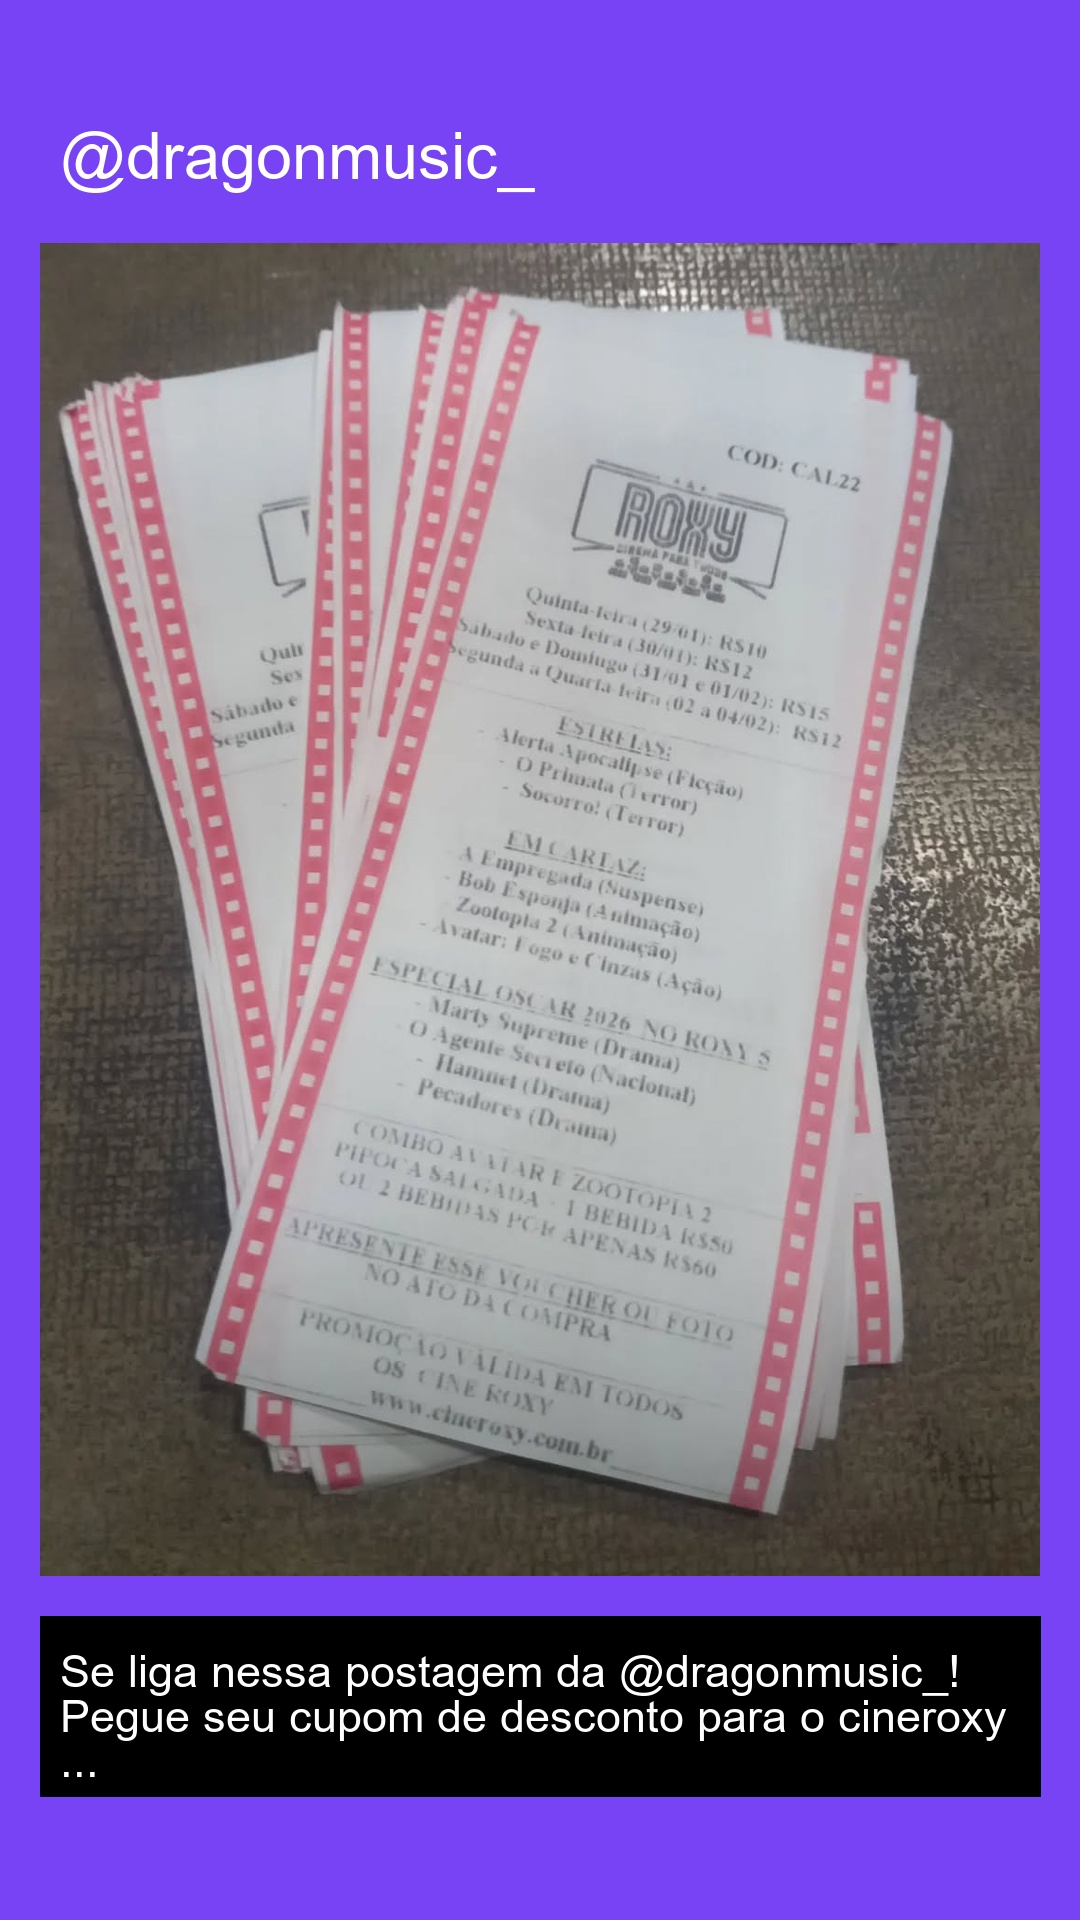
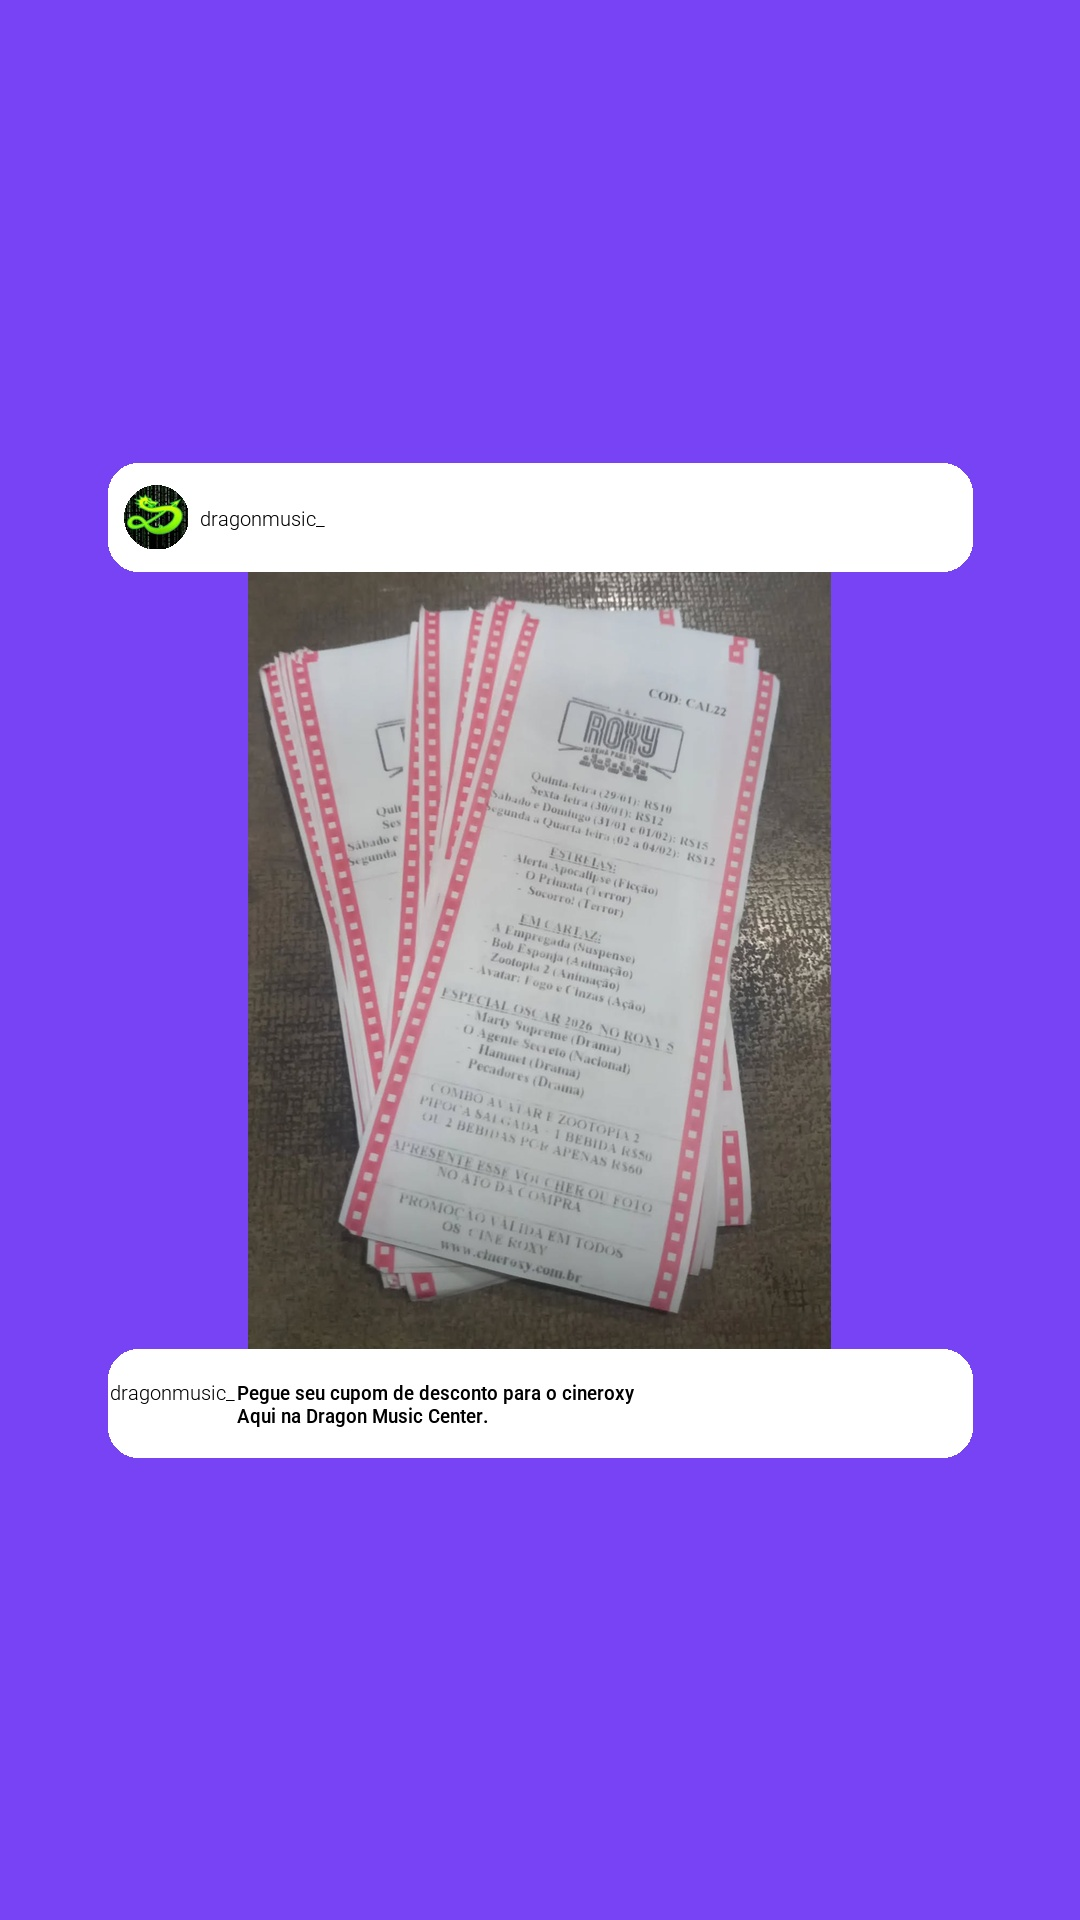
Layout imagens quase pronto

diff --git a/bot.py b/bot.py
@@ -9,10 +9,10 @@ from PIL import Image, ImageDraw, ImageFont
 from io import BytesIO
 
 # === CONFIGURAÇÕES ===
[1 lines of base64/hex data omitted]
-MY_INSTAGRAM_ID = "17841455197985437"
-TARGET_USER = "dragonmusic_"
-IMGBB_API_KEY = "d8708c0e7f0dae2ef239523b50ea314d"
+ACCESS_TOKEN = ""
+MY_INSTAGRAM_ID = ""
+TARGET_USER = ""
+IMGBB_API_KEY = ""
 
 MEDIA_DIR, EDIT_DIR, LOG_DIR = "Media", "Edit", "Log"
 LOG_FILE = os.path.join(LOG_DIR, "postados_log.txt")
@@ -46,12 +46,44 @@ def prepare_custom_image(media_url, post_id, caption_text):
     draw = ImageDraw.Draw(canvas)
 
     # cria um retangulo preto centralizado nas medidas 864x778
-    draw.rectangle([108, 571, 972, 1349], fill=(0, 0, 0))
+    try:
+        response = requests.get(media_url)
+        post_img = Image.open(BytesIO(response.content)).convert("RGB")
+
+        max_w, max_h = 864, 778
+        post_img.thumbnail((max_w, max_h), Image.Resampling.LANCZOS)
+
+        img_w, img_h = post_img.size
+        img_x = 108 + (max_w - img_w) // 2
+        img_y = 571 + (max_h - img_h) // 2
+
+        canvas.paste(post_img, (img_x, img_y))
+
+    except Exception as e:
+        print(f"Erro de processar  imagem do post: {e}")
 
     # cria um retangulo branco acima do retangulo anterior, mesma largura, baixinho, pontras superiores curvadas (864x108)
-    draw.rounded_rectangle([108, 571-108, 972, 571], radius=(30, 30, 0, 0),fill=(255, 255, 255))
+    draw.rounded_rectangle([108, 571-108, 972, 571], radius=30,fill=(255, 255, 255))
     # cria um retangulo branco abaixo do reatangulo anterior, mesma largura, baixinho, pontas inferiores curvadas (864x108)
-    draw.rounded_rectangle([108, 1349, 972, 1349+108], radius=(0, 0, 30, 30),fill=(255, 255, 255))
+    draw.rounded_rectangle([108, 1349, 972, 1349+108], radius=30,fill=(255, 255, 255))
+
+    profile_size = 64
+    profile_path = os.path.join("Images", "dragon.png")
+
+    try:
+        profile_img = Image.open(profile_path).convert("RGBA")
+        profile_img = profile_img.resize((profile_size, profile_size), Image.Resampling.LANCZOS)
+
+        mask = Image.new('L', (profile_size, profile_size), 0)
+        draw_mask = ImageDraw.Draw(mask)
+        draw_mask.ellipse((0, 0, profile_size, profile_size), fill=255)
+
+        profile_img.putalpha(mask)
+
+        canvas.paste(profile_img, (124, 485), profile_img)
+
+    except Exception as e:
+        print(f"Erro ao carregar imagem de perfil: {e}")
 
     # define as variáveis das fontes
     simple_text = ImageFont.truetype("Fonts/static/Roboto_SemiCondensed-Medium.ttf", 20)
@@ -59,9 +91,49 @@ def prepare_custom_image(media_url, post_id, caption_text):
 
     # adiciona 2 textos no bloco branco de baixo, 10 pixels abaixo do inicio dele e 2 pixels a direita do inicio dele
     # e um no meio do branco de cima, 12 pixels a direita
-    draw.text((120, 571-108+44), "dragonmusic_", fill=(0, 0, 0), font=bold_text)
-    draw.text((110, 1349+32), "dragonmusic_", fill=(0, 0, 0), font=bold_text)
-    draw.text((130, 1349+32+25), "Veja só o que a dragon music postou: (descrição)", fill=(0, 0, 0), font=simple_text)
+    draw.text((200, 571-108+44), "dragonmusic_", fill=(0, 0, 0), font=bold_text)
+
+    username = "dragonmusic_"
+    y_linha1 = 1349 + 32
+    y_linha2 = y_linha1 + 20 + 4
+    x_inicio = 110
+    x_limite = 970
+
+    largura_user = bold_text.getlength(username)
+    x_desc_linha1 = x_inicio + largura_user + 2
+    max_w_linha1 = x_limite - x_desc_linha1
+    max_w_linha2 = x_limite - x_inicio
+
+    def fatiar_texto(texto, fonte, largura_maxima):
+        acumulado = ""
+        for char in texto:
+            if fonte.getlength(acumulado + char) <= largura_maxima:
+                acumulado += char
+            else:
+                break
+        return acumulado
+    
+    linha1_conteudo = fatiar_texto(caption_text, simple_text, max_w_linha1)
+    sobra = caption_text[len(linha1_conteudo):].strip()
+
+    if sobra:
+        if simple_text.getlength(sobra) > max_w_linha2:
+            largura_com_pontos = max_w_linha2 - simple_text.getlength("...")
+            linha2_conteudo = fatiar_texto(sobra, simple_text, largura_com_pontos) + "..."
+        else:
+            linha2_conteudo = sobra
+    else: 
+        linha2_conteudo = ""
+    
+    draw.text((x_inicio, y_linha1), username, fill=(0, 0, 0), font=bold_text)
+    draw.text((x_desc_linha1, y_linha1), linha1_conteudo, fill=(0, 0, 0), font=simple_text)
+
+    if linha2_conteudo:
+        draw.text((x_inicio, y_linha2), linha2_conteudo, fill=(0, 0, 0), font=simple_text)
+
+    path = os.path.join("Edit", f"final_{post_id}.jpg")
+    canvas.save(path, quality=95)
+    return path
 
 def share_to_story(media_url, media_type, post_id, caption):
     payload = {'media_type': 'STORIES', 'access_token': ACCESS_TOKEN}
